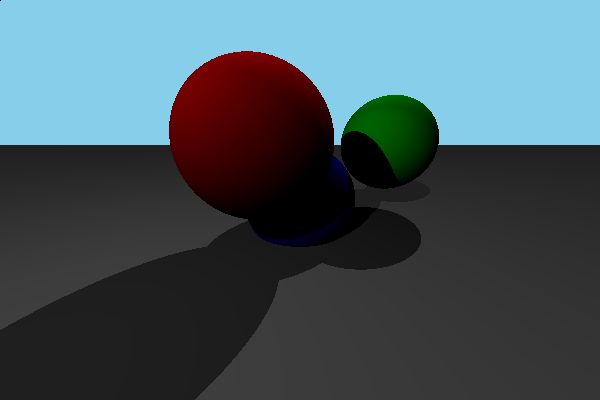
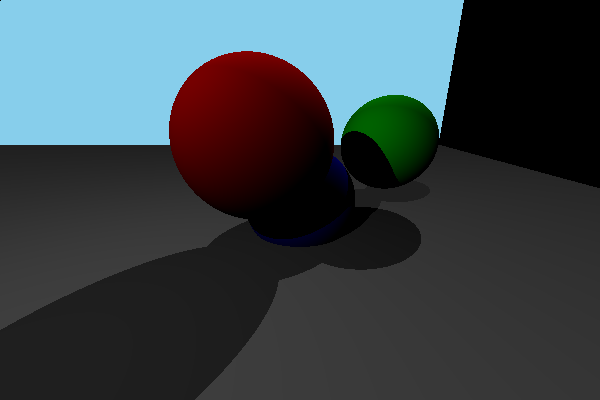
added a triangle

Changed region(s): [[0.72, 0.0, 1.0, 0.48]]

diff --git a/src/components/triangle.rs b/src/components/triangle.rs
@@ -1,0 +1,76 @@
+use super::*;
+
+#[derive(Copy,Clone)]
+pub struct Triangle {
+    pub coordinates : [Vector3<f32>;3],
+    pub color : Color,
+    pub normal : Vector3<f32>,
+    pub albedo : f32
+}
+
+impl Triangle {
+    pub fn new(coord : [Vector3<f32>;3], col : Color, albedo : f32) -> Triangle {
+        Triangle {
+            coordinates : coord,
+            color : col,
+            normal : Triangle::calculate_normal(coord),
+            albedo : albedo
+        }
+    }
+    pub fn new_defined() -> Triangle {
+        let coord = [
+            Vector3::new(3.0,3.0,3.0),
+            Vector3::new(3.0,3.5,3.0),
+            Vector3::new(3.0,3.5,3.5)
+        ];
+        Triangle {
+            coordinates : coord,
+            color : Colors::YELLOW.value(),
+            normal : Triangle::calculate_normal(coord),
+            albedo : 1.0
+        }
+    }
+    fn calculate_normal(coord : [Vector3<f32>;3]) -> Vector3<f32> {
+        let x = coord[1] - coord[0];
+        let y = coord[2] - coord[0];
+        x.cross(&y)
+    }
+}
+
+impl Intersectable for Triangle {
+    fn simple_intersect(&self, ray: &Ray) -> bool {
+        let normal = &self.normal;
+        let denom = normal.dot(&ray.direction);
+        denom > 1e-6
+    }
+    fn get_position(&self) -> Vector3<f32> {
+        self.coordinates
+            .to_vec()
+            .iter()
+            .sum()
+    }
+    fn intersect(&self, ray: &Ray) -> Option<PointInfo> {
+        if !self.simple_intersect(ray) {
+            None
+        } else {
+            let d = self.normal.dot(&self.coordinates[0]);
+            let t = -(self.normal.dot(&ray.origin) + d) / - self.normal.dot(&ray.direction);
+            let intersection = ray.origin + t * ray.direction;
+            Some(
+                PointInfo {
+                    normal : -self.normal,
+                    intersection : intersection,
+                    distance : t
+                }
+            )
+        }
+        
+        
+    }
+    fn get_color(&self) -> Color {
+        self.color
+    }
+    fn get_albedo(&self) -> f32 {
+        self.albedo
+    }
+}

diff --git a/src/components/utils.rs b/src/components/utils.rs
@@ -50,37 +50,43 @@ pub struct PointInfo {
 pub enum Element {
     Sphere(Sphere),
     Plane(Plane),
+    Triangle(Triangle)
 }
 impl Intersectable for Element {
     fn simple_intersect(&self, ray: &Ray) -> bool {
         match *self {
             Element::Sphere(ref s) => s.simple_intersect(ray),
-            Element::Plane(ref p) => p.simple_intersect(ray)
+            Element::Plane(ref p) => p.simple_intersect(ray),
+            Element::Triangle(ref t) => t.simple_intersect(ray)
         }
 
     }
     fn intersect(&self, ray: &Ray) -> Option<PointInfo> {
         match *self {
             Element::Sphere(ref s) => s.intersect(ray),
-            Element::Plane(ref p) => p.intersect(ray)
+            Element::Plane(ref p) => p.intersect(ray),
+            Element::Triangle(ref t) => t.intersect(ray)
         }
     }
     fn get_color(&self) -> Color {
         match *self {
             Element::Sphere(ref s) => s.get_color(),
-            Element::Plane(ref p) => p.get_color()
+            Element::Plane(ref p) => p.get_color(),
+            Element::Triangle(ref t) => t.get_color()
         }
     }
     fn get_albedo(&self) -> f32 {
         match *self {
             Element::Sphere(ref s) => s.get_albedo(),
-            Element::Plane(ref p) => p.get_albedo()
+            Element::Plane(ref p) => p.get_albedo(),
+            Element::Triangle(ref t) => t.get_albedo()
         }
     }
     fn get_position(&self) -> Vector3<f32> {
         match *self {
             Element::Sphere(ref s) => s.get_position(),
-            Element::Plane(ref p) => p.get_position()
+            Element::Plane(ref p) => p.get_position(),
+            Element::Triangle(ref t) => t.get_position()
         }
     }
 }

diff --git a/src/main.rs b/src/main.rs
@@ -10,8 +10,8 @@ use std::thread;
 
 fn main() {
     // dotprod();
-    // render_multiple_scenes();
-    render_animation();
+    render_multiple_scenes();
+    // render_animation();
 }
 
 fn render_multiple_scenes() {
@@ -21,6 +21,7 @@ fn render_multiple_scenes() {
         Element::Sphere(Sphere::new(0f32, 1f32, -4f32, Colors::RED, 1.0)),
         Element::Sphere(Sphere::new(1f32, 1f32, -1f32, Colors::GREEN, 1.0)),
         Element::Plane(Plane::new()),
+        Element::Triangle(Triangle::new_defined())
     ];
     let lights = [
         Light::DirectionalLight(DirectionalLight {
@@ -85,6 +86,7 @@ fn render_animation() {
         Element::Sphere(Sphere::new(0f32, 1f32, -4f32, Colors::RED, 1.0)),
         Element::Sphere(Sphere::new(1f32, 1f32, -1f32, Colors::GREEN, 1.0)),
         Element::Plane(Plane::new()),
+        Element::Triangle(Triangle::new_defined())
     ];
     let mut lights = [
         Light::DirectionalLight(DirectionalLight {

diff --git a/src/components/mod.rs b/src/components/mod.rs
@@ -8,6 +8,8 @@ pub use self::sphere::*;
 pub use self::utils::*;
 pub use self::interpolation::*;
 pub use self::lights::*;
+pub use self::triangle::*;
+
 
 mod camera;
 mod plane;
@@ -17,3 +19,4 @@ mod sphere;
 mod utils;
 mod interpolation;
 mod lights;
+mod triangle;

diff --git a/src/components/scene.rs b/src/components/scene.rs
@@ -24,6 +24,7 @@ impl Scene {
             ),
         }
     }
+    #[allow(dead_code)]
     pub fn fire_rays(
         &self,
         image: &mut DynamicImage,
